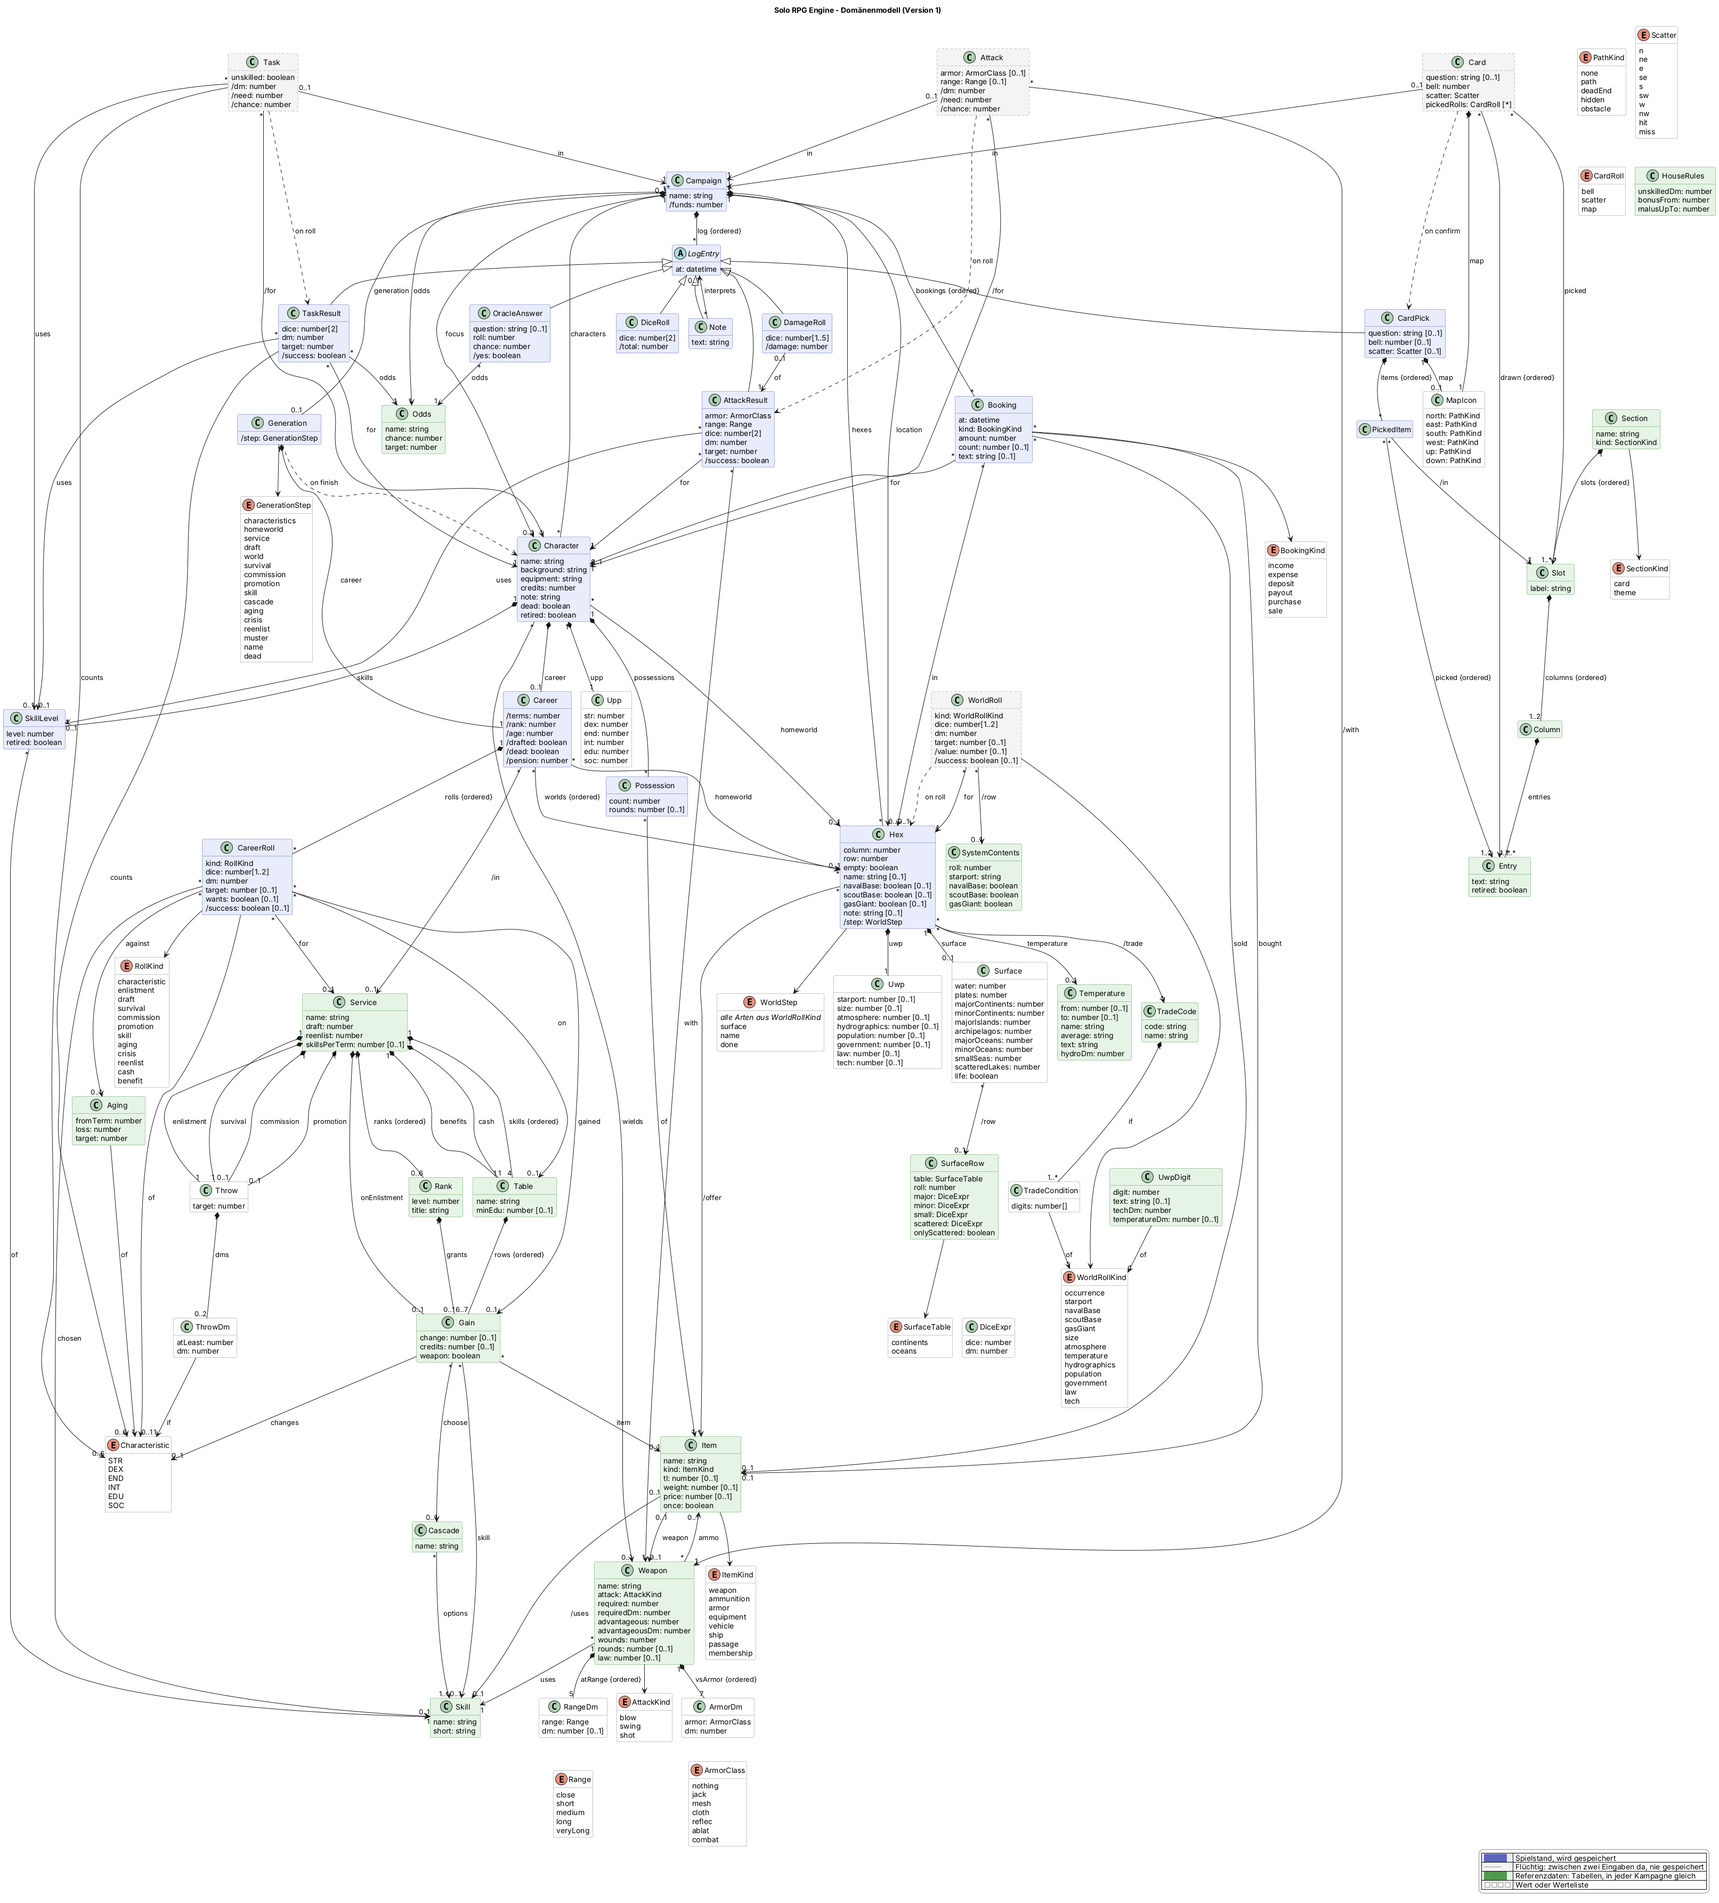
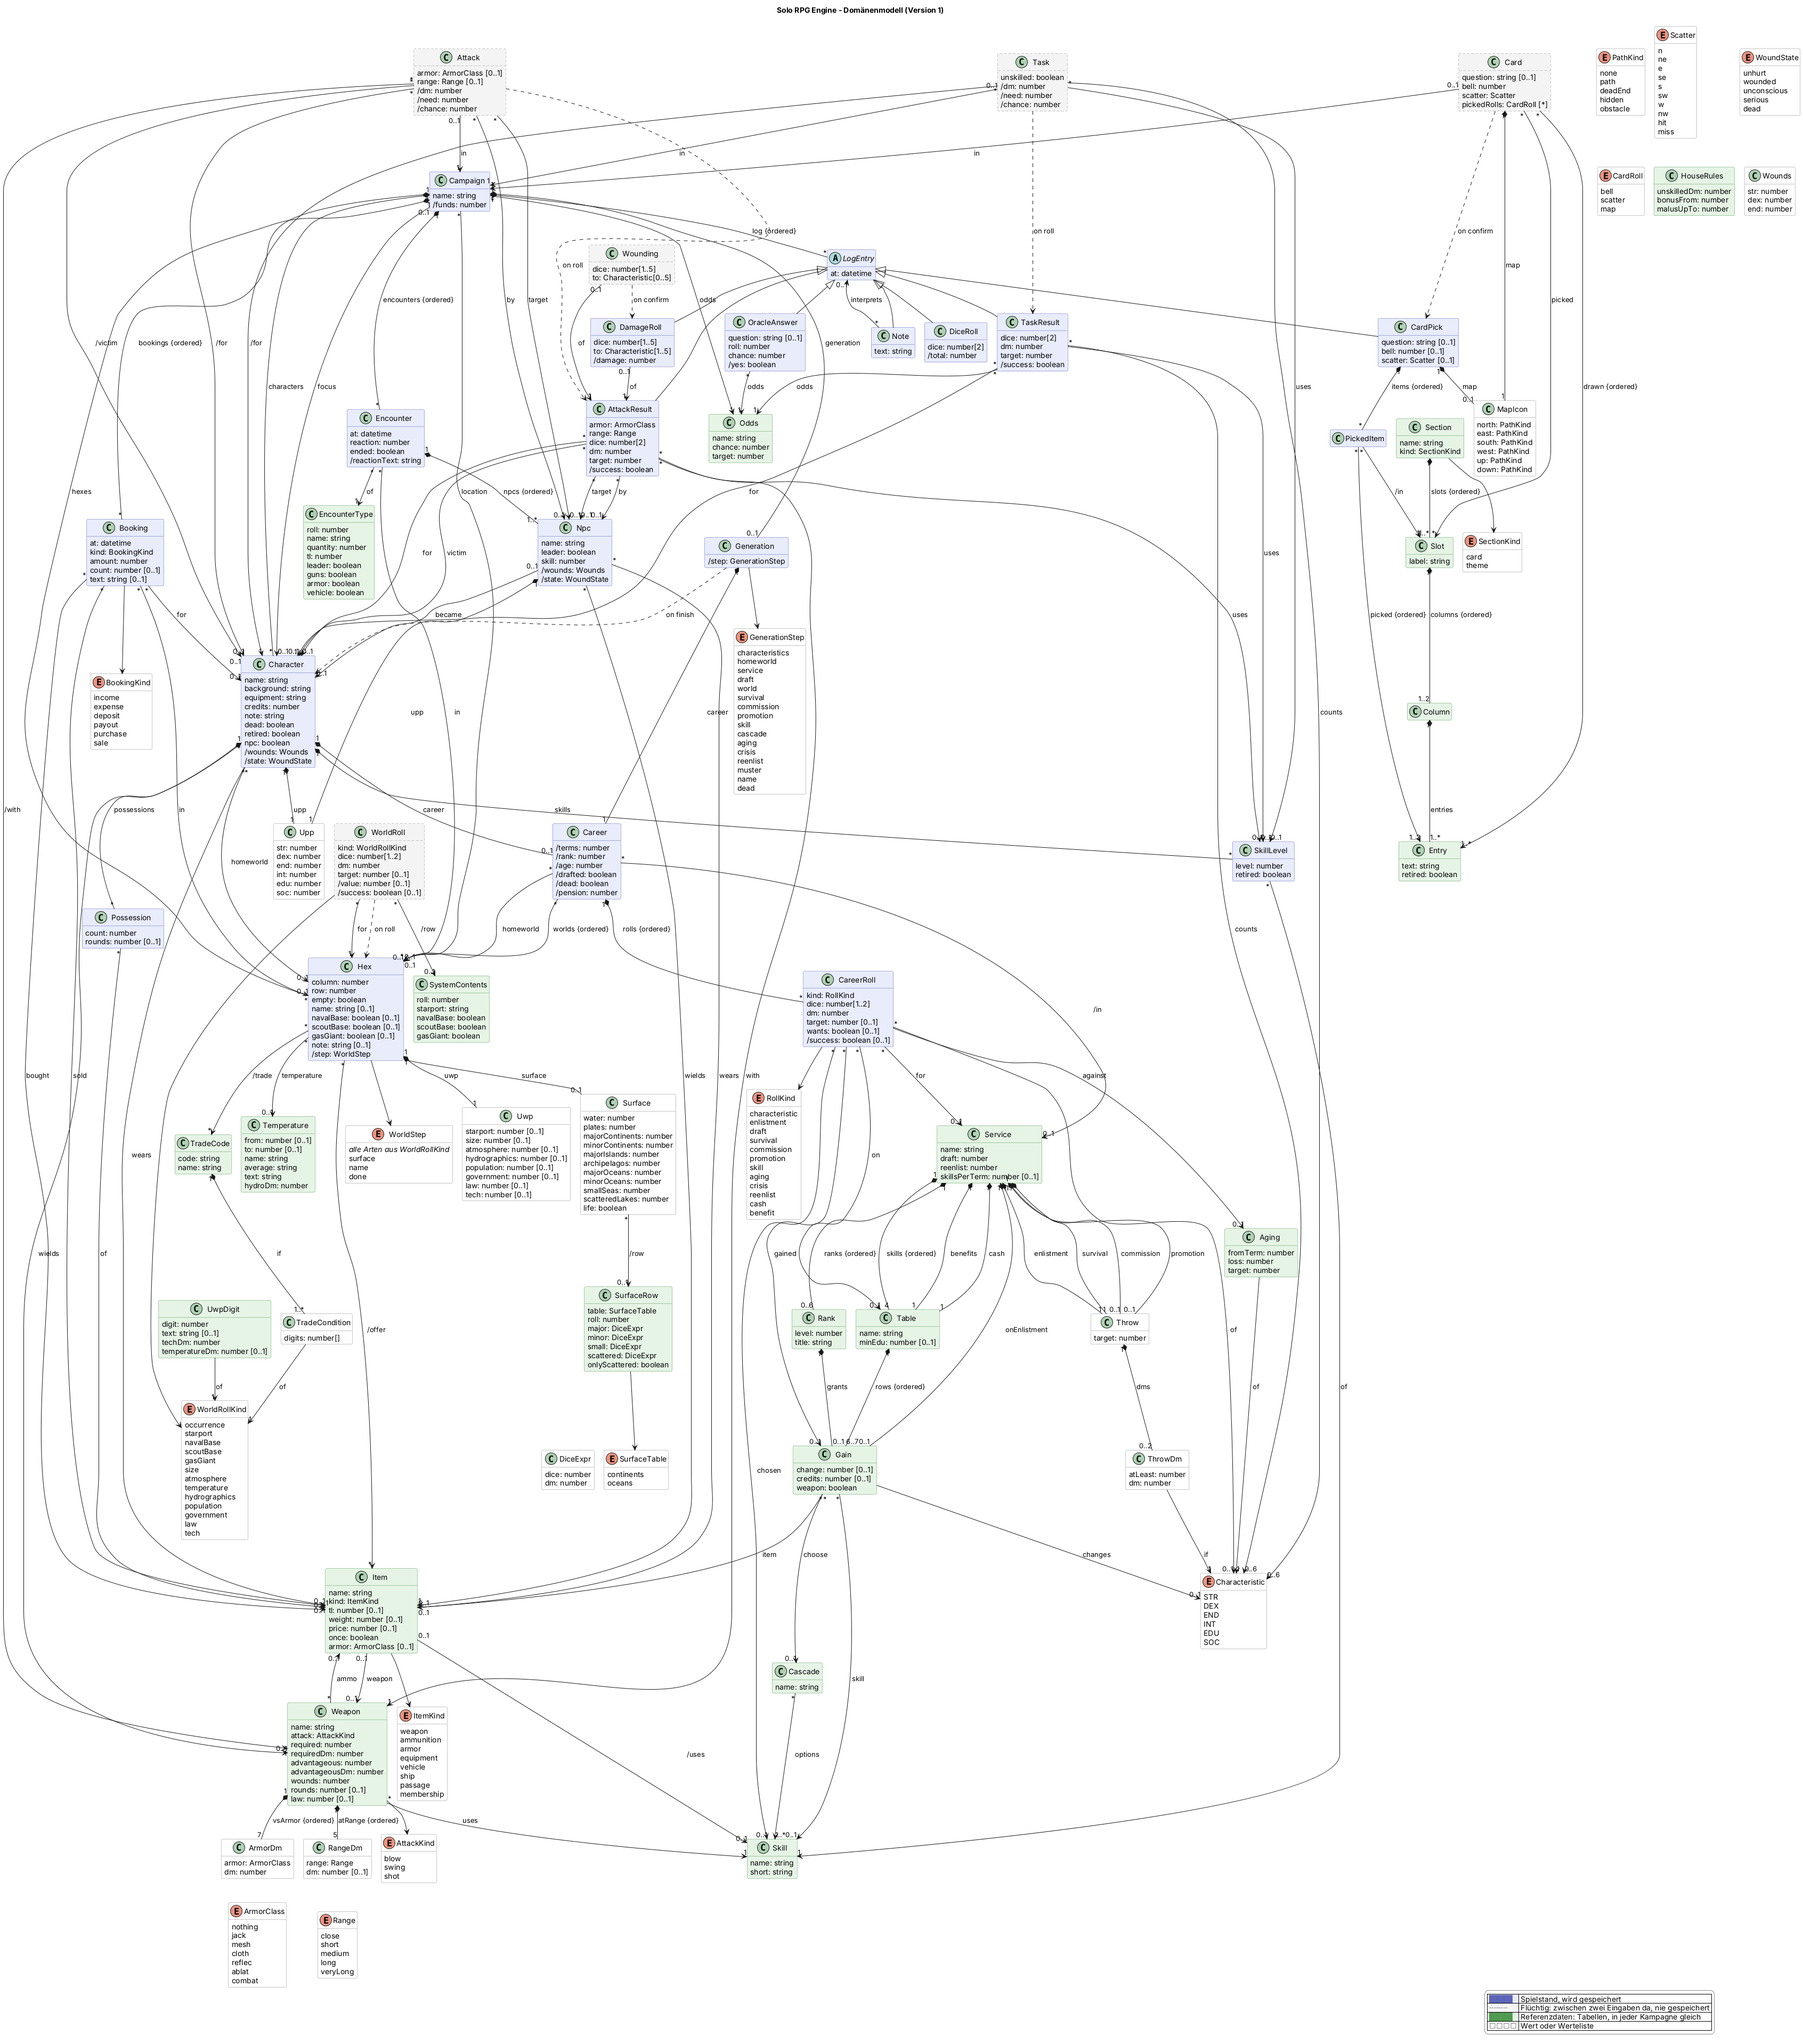
Domänenmodell: Entwurf für Begegnungen, NSC, Angriffe in beide Richtungen und Wunden
Noch nicht freigegeben.

Claude-Session: https://claude.ai/code/session_016ZF27yZHN9giErP6hqtVYC

diff --git a/docs/domain-model.md b/docs/domain-model.md
@@ -88,6 +88,13 @@ Lücken unter [Wo der Code noch nicht folgt](#wo-der-code-noch-nicht-folgt).
 > flüchtig der Angriff in Vorbereitung (`Attack`), im Log das Angriffsergebnis (`AttackResult`)
 > und der Schadenswurf (`DamageRoll`).
 >
+> **Entwurf, noch nicht freigegeben** (3. November 2026): **Begegnungen mit NSC, Angriffe in beide
+> Richtungen und Wunden** (siehe *Begegnung*, *NSC*, *Wunden*, *Getragene Rüstung*). Neu im Bild:
+> `Encounter`, `Npc`, `Wounds`, `WoundState`, als Referenzdaten `EncounterType`, flüchtig
+> `Wounding`; `Character.npc`, `Character.wears`, `Character./wounds`, `Character./state`,
+> `Item.armor`, `DamageRoll.to`; der Angriff kennt Angreifer und Ziel als SC oder NSC (`for`/`by`,
+> `target`/`victim`).
+>
 > Ebenfalls am 3. November 2026 freigegeben: **Verkaufen** im Shop (siehe *Shop*). Neu im Bild: die Buchungsart `sale` und der Verweis `Booking.sold`.
 >
 > Ebenfalls am 3. November 2026 freigegeben: **Aufenthaltsort, Gruppenkasse, Shop und Munition**
@@ -175,6 +182,18 @@ Vacc Suit, Jack-of-all-Trades, …), Terms, Cr.
 | Magazin | `Weapon.ammo` | Der Gegenstand, der eine Schusswaffe lädt, z. B. Rifle Ammo (20 rds) oder LC Power Pack |
 | Schuss im Magazin | `Possession.rounds`, `Weapon.rounds` | Wie viele Schuss eine Schusswaffe gerade geladen hat bzw. voll fasst |
 | Verboten ab Gesetz | `Weapon.law` | Ab dieser Gesetzesstufe ist die Waffe verboten (S. 14), z. B. Body Pistol ab 1 |
+| Begegnung | `Encounter` | Eine Gruppe von NSC, auf die die Gruppe trifft, z. B. „5 Thugs“; gewürfelt nach der Random Encounter List (S. 21) |
+| Art der Begegnung | `EncounterType` | Eine Zeile der Random Encounter List: Anzahl in W6, Name, TL-Abweichung, Anführer (L), Schusswaffen (G), Rüstung (A), Fahrzeug (V) |
+| Reaktion | `Encounter.reaction` | 2W6 auf die Reactions-Tabelle (S. 21): 2 sofortiger Angriff … 12 freundlich |
+| NSC der Begegnung | `Npc` | Ein Gegner oder Fremder in einer Begegnung, mit UPP, Waffe, Rüstung, Fertigkeit und Wunden |
+| Anführer | `Npc.leader` | Der NSC mit der besten Ausrüstung, wenn die Begegnung einen hat (L) |
+| Übernehmen | `Npc.became` | Ein NSC wird zum Charakter der Kampagne, als SC oder als dauerhafter NSC |
+| Dauerhafter NSC | `Character` mit `npc` | Ein Charakter, der kein SC ist; er steht im Charakter-Screen unter „NSC“ |
+| Getragene Rüstung | `Character.wears`, `Npc.wears` | Die Rüstung, die jemand gerade anhat; sie zählt, wenn er angegriffen wird |
+| Rüstungsklasse einer Rüstung | `Item.armor` | Wie eine Rüstung in der Matrix zählt, z. B. Vacc Suit als Cloth, Battle Dress als Combat |
+| Wunden | `/wounds`, `Wounds` | Wie viel STR, DEX und END jemand durch Treffer verloren hat |
+| Zustand | `/state`, `WoundState` | unverletzt, verwundet, bewusstlos (ein Attribut auf 0), schwer verwundet (zwei), tot (drei) |
+| Schaden verteilen | `Wounding` | Ein gewürfelter Schaden an einem SC, solange der Spieler die Würfel auf Attribute verteilt |
 | Angriff | `Attack` | Ein Angriff, solange er für den Charakter oben vorbereitet wird |
 | Angriffsergebnis | `AttackResult` | Ein gewürfelter Angriff: Treffer oder nicht |
 | Schadenswurf | `DamageRoll` | Der Wurf auf den Schaden eines Treffers, z. B. 3W6 = 11 |
@@ -485,6 +504,74 @@ Vacc Suit, Jack-of-all-Trades, …), Terms, Cr.
   - Der Angriff im Log bleibt, wie er ist; welcher Schuss es war, hält er nicht fest.
   - **Später**: Automatisches Feuer (mehrere Schuss), angebrochene Magazine aufheben, Recharge der
     Power Packs.
+- **Begegnung.** Im Reiter Kampf würfelt man auf dem Aufenthaltsort eine **Begegnung** (`Encounter`),
+  ohne weitere Eingabe; man kann die Art auch aus der Liste wählen, die Anzahl wird dann trotzdem
+  gewürfelt, außer man gibt sie vor.
+  - *Art*: 1W6 und 1W6 auf die Random Encounter List (S. 21), z. B. 14 = 3W6 Rowdies (L). Die Zeilen
+    61–66 sind leer: keine Begegnung, nichts wird angelegt.
+  - *Anzahl*: so viele W6, wie die Art angibt (mindestens 1 NSC).
+  - *TL der Gruppe*: TL der Welt plus die Abweichung der Art (z. B. +1 bei Soldiers), mindestens 0.
+  - *Jeder NSC* (`Npc`) bekommt 2W6 je Attribut, einen Namen von der Tafel NSC (Vor- und Nachname,
+    irdisch oder spacig zufällig), eine Waffe (`wields`) und mit A eine Rüstung (`wears`): Ohne G
+    eine zufällige Klinge bis zum TL der Gruppe (Club, Cudgel, Spear, Dagger, Blade …, nach
+    *Available Weapons by TL*), mit G eine zufällige Schusswaffe bis zum TL; mit A eine zufällige
+    Rüstung bis zum TL. Die Fertigkeit in seiner Waffe (`skill`) ist 1. Munition zählen NSC nicht.
+  - *Anführer* (L): der erste NSC; er bekommt die beste Ausrüstung bis zum TL (die Waffe mit dem
+    höchsten TL, bei Gleichstand die teuerste, ebenso die Rüstung, auch ohne A) und Fertigkeit 2.
+  - *Fahrzeug* (V) hält die Art fest; im Kampf zählt es vorerst nicht.
+  - *Reaktion* (`reaction`): 2W6, DM −1 auf einer Welt mit Bevölkerung 9+; eine echte 2 oder 12
+    bleibt, sonst begrenzt auf 3 bis 11. Der Text (`/reactionText`) kommt aus der Tabelle.
+  - Es gibt höchstens **eine laufende Begegnung**. Sie bleibt gespeichert, bis man sie beendet
+    (`ended`); beendete Begegnungen bleiben in der Kampagne, weil der Log auf ihre NSC verweist,
+    und werden nicht mehr gezeigt. Eine Begegnung, auf die der Log nicht verweist, wird beim Beenden
+    gelöscht.
+- **NSC.** Ein NSC lebt in seiner Begegnung, getrennt von den Charakteren.
+  - **Übernehmen**: Man kann einen NSC als SC oder als dauerhaften NSC in die Kampagne übernehmen.
+    Er wird ein Charakter mit seinem Namen, seinem UPP (die vollen Werte, ohne Wunden), seiner
+    Fertigkeit in der Waffe, Waffe und Rüstung im Besitz, Waffe in der Hand und getragener Rüstung,
+    Herkunft = Art der Begegnung. Als dauerhafter NSC hat er `npc`. Der NSC der Begegnung verweist
+    danach auf ihn (`became`), kämpft nicht mehr in der Begegnung und lässt sich nicht noch einmal
+    übernehmen.
+  - **Dauerhafte NSC** (`Character` mit `npc`) stehen im Charakter-Screen unter „NSC“, nicht in der
+    Leiste oben, nicht unter den SC im Shop, und lassen sich im Editor zum SC machen und umgekehrt.
+    Proben und Angriffe würfelt man für SC.
+- **Getragene Rüstung.** Jeder Charakter trägt höchstens eine Rüstung (`wears`), einen Gegenstand
+  der Art *armor* aus seinem Besitz; keine heißt Nothing. Wie die Rüstung in der Matrix zählt, steht
+  an ihr (`Item.armor`): Jack, Mesh, Cloth, Reflec, Ablat, Combat Armor als Combat, Vacc Suit als
+  Cloth, Battle Dress als Combat. Man wählt sie im Kampf und im Editor; geht sie aus dem Besitz,
+  trägt er Nothing.
+- **Angriff in beide Richtungen.**
+  - *SC gegen NSC*: Der Charakter oben greift einen NSC der laufenden Begegnung an (`target`), der
+    weder tot noch übernommen ist. Die Rüstung ist die, die der NSC trägt; man wählt nur die
+    Reichweite. Wie bisher geht auch ein Ziel ohne NSC, mit frei gewählter Rüstung.
+  - *NSC gegen SC*: Ein NSC der Begegnung, der nicht bewusstlos oder tot ist, greift den Charakter
+    oben an (`by`, `victim`). Es zählen die Fertigkeit des NSC (`skill`), seine Waffe, seine
+    STR/DEX mit Wunden, die getragene Rüstung des SC und die Reichweite.
+  - Angreifer mit Wunden: STR bzw. DEX zählen mit ihrem verwundeten Wert. Bewusstlose und Tote
+    greifen nicht an.
+  - Das Angriffsergebnis verweist auf Angreifer (`for` = SC oder `by` = NSC, genau einer) und, wenn
+    es eines gibt, auf das Ziel (`target` = NSC oder `victim` = SC, höchstens einer); es hält wie
+    bisher Rüstung, Reichweite, Würfel, DM und Zielwert fest.
+- **Wunden.** Nach S. 7. Der Schaden eines Treffers wird auf STR, DEX und END verteilt; jeder Würfel
+  ist ein Block, der ganz auf ein Attribut geht und nicht geteilt wird (`DamageRoll.to`, je Würfel
+  das Attribut). Was über 0 hinausgeht, verfällt.
+  - *Erster Treffer* (kritisch): Der erste Schaden, den jemand bekommt, geht ganz auf ein zufällig
+    gewähltes Attribut.
+  - *Weitere Treffer*: Bei einem NSC verteilt die App jeden Würfel zufällig auf ein Attribut über 0;
+    bei einem SC wählt der Spieler für jeden Würfel das Attribut (`Wounding`, flüchtig, bis alle
+    verteilt sind; erst dann steht der Schadenswurf im Log). Ist kein Attribut mehr über 0, verfällt
+    der Würfel.
+  - Die Wunden (`/wounds`) folgen aus den Schadenswürfen im Log, die auf Treffer gegen diesen SC bzw.
+    NSC verweisen. Ein Schadenswurf löschen nimmt seine Wunden zurück.
+  - *Zustand* (`/state`): kein Attribut auf 0 und keine Wunde: unverletzt; Wunden, aber keins auf 0:
+    verwundet; eins auf 0: bewusstlos (10 Minuten); zwei: schwer verwundet (3 Stunden
+    bewusstlos); drei: tot. Stirbt ein SC so, markiert ihn die App als tot (`dead`); das lässt sich
+    im Editor zurücknehmen.
+  - Ein Treffer ohne Ziel (frei gewählte Rüstung) würfelt seinen Schaden wie bisher, verteilt ihn
+    aber nicht (`to` fehlt).
+  - **Später**: Heilung (Medical Kit, Medical-1/-3, Ruhe), das Aufwachen auf die Mitte zwischen
+    verwundet und voll, Wunden mit Zeit, Munition der NSC, Fahrzeuge, Überraschung, Entfernung,
+    Moral und Kampfrunden.
 - **Charakter oben.** Oben im Orakel-Screen steht ein Charakter der Kampagne, der **Charakter oben**
   (`focus`); für ihn würfelt man Proben, ohne den Screen zu wechseln. Wischen zeigt den nächsten
   bzw. vorigen. Infrage kommen nur Lebende, die nicht ausgeblendet sind, in der Reihenfolge der
